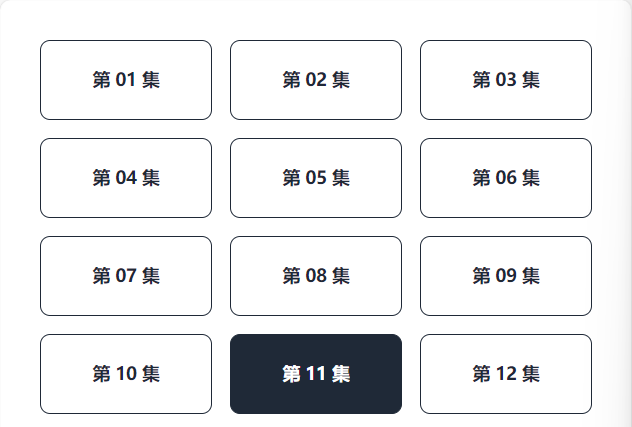
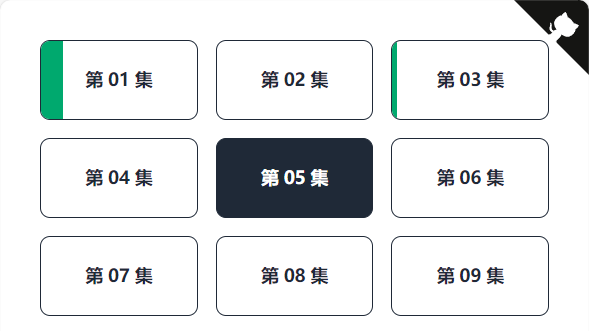
feat: display progress on home page

diff --git a/src/pages/episode.vue b/src/pages/episode.vue
@@ -1,9 +1,8 @@
 <script setup lang="ts">
 import data from '@/assets/data.json'
-import audioYesUrl from '/audio/yes.mp3'
-import audioNoUrl from '/audio/no.mp3'
 import { checkSentence } from '@/utils/index'
 import { useLocalStorage } from '@vueuse/core'
+import { useAudio } from '@/utils/hooks'
 
 type Sentence = {
     CN: string
@@ -14,9 +13,6 @@ type Lines = {
     titleCN: string
     sentences: Sentence[]
 }
-
-const yesAudio = new Audio(audioYesUrl)
-const noAudio = new Audio(audioNoUrl)
 
 const route = useRoute()
 const router = useRouter()
@@ -31,7 +27,7 @@ const completedList = useLocalStorage<boolean[]>(
 )
 const page = reactive({
     // 当前页码：找到第一个未练习的句子
-    current: completedList.value.findIndex((x) => !x) + 1,
+    current: Math.max(1, completedList.value.findIndex((x) => !x) + 1),
     total
 })
 const currentIndex = computed(() => page.current - 1)
@@ -47,20 +43,19 @@ const checkDisabled = computed(() => !input.value)
 
 const showResult = ref(false)
 const result = ref(false)
+const audio = useAudio()
 function check() {
     if (checkDisabled.value) return
-    if (showResult.value && !result.value) {
-        restore()
-        return
-    }
+    if (showResult.value && !result.value) return restore()
+    if (showResult.value && result.value) return next()
 
     result.value = checkSentence(input.value, sentence.value.EN)
     showResult.value = true
     if (result.value) {
         completedList.value[currentIndex.value] = true
-        yesAudio.play()
+        audio.playYes()
     } else {
-        noAudio.play()
+        audio.playNo()
     }
 }
 function restore() {
@@ -175,6 +170,15 @@ function next() {
 </template>
 
 <style lang="scss" scoped>
+@supports not (color: oklch(0% 0% 0deg)) {
+    .btn[disabled],
+    .btn:disabled {
+        color: #b0b3b9;
+        background-color: #d5d6d9;
+        border-color: transparent;
+    }
+}
+
 .btn-bar {
     position: fixed;
     left: 0;

diff --git a/src/pages/index.vue b/src/pages/index.vue
@@ -1,7 +1,19 @@
-<script setup lang="ts"></script>
+<script setup lang="ts">
+function getProgress(i: number) {
+    const str = localStorage.getItem(`completedList-${i}`)
+    if (str) {
+        const completedList = JSON.parse(str) as boolean[]
+        const progress =
+            (completedList.filter((x) => x).length / completedList.length) * 100
+        return `${progress}%`
+    } else {
+        return 0
+    }
+}
+</script>
 
 <template>
-    <div class="vapp entrance">
+    <div class="vapp entrance-list">
         <!-- style="flex-basis: calc(16.66% - 0.9rem); min-width: 90px" -->
         <RouterLink
             v-for="i in 52"
@@ -10,21 +22,39 @@
             style="min-width: 5.625rem"
         >
             <button class="w-full h-16 btn btn-neutral btn-outline">
-                第 {{ String(i).padStart(2, '0') }} 集
+                <span>第 {{ String(i).padStart(2, '0') }} 集</span>
+                <span :style="{ width: getProgress(i) }"></span>
             </button>
         </RouterLink>
     </div>
 </template>
 
 <style lang="scss" scoped>
-.entrance {
+.entrance-list {
     display: grid;
     grid-template-columns: repeat(3, 1fr);
     gap: 0.9rem;
+
+    .btn {
+        position: relative;
+        overflow: hidden;
+    }
+    .btn span:first-child {
+        position: relative;
+        z-index: 5;
+    }
+    .btn span:last-child {
+        position: absolute;
+        top: 0;
+        bottom: 0;
+        left: 0;
+        z-index: 1;
+        background-color: #00a96e;
+    }
 }
 
 @media (min-width: 640px) {
-    .entrance {
+    .entrance-list {
         grid-template-columns: repeat(4, 1fr);
     }
 }

diff --git a/index.html b/index.html
@@ -11,7 +11,7 @@
   </head>
   <body>
     <div id="app"></div>
-    <a href="https://github.com/justorez/peppa" class="github-corner" title="Fork me on github">
+    <a href="https://github.com/justorez/peppa" target="_blank" class="github-corner" title="Fork me on github">
       <svg viewBox="0 0 250 250" style="fill:#151513; color:#fff; position: absolute; top: 0; border: 0; right: 0;" aria-hidden="true">
         <path d="M0,0 L115,115 L130,115 L142,142 L250,250 L250,0 Z"></path><path d="M128.3,109.0 C113.8,99.7 119.0,89.6 119.0,89.6 C122.0,82.7 120.5,78.6 120.5,78.6 C119.2,72.0 123.4,76.3 123.4,76.3 C127.3,80.9 125.5,87.3 125.5,87.3 C122.9,97.6 130.6,101.9 134.4,103.2" fill="currentColor" style="transform-origin: 130px 106px;" class="octo-arm">  
         </path>

diff --git a/src/utils/index.ts b/src/utils/index.ts
@@ -1,5 +1,11 @@
 export function checkSentence(input: string, answer: string) {
-    input = input.replace(/[.,?]/g, ' ').split(/\s+/).join('')
-    answer = answer.replace(/[.,?]/g, ' ').split(/\s+/).join('')
+    input = input
+        .replace(/[.,?!]/g, ' ')
+        .split(/\s+/)
+        .join('')
+    answer = answer
+        .replace(/[.,?!]/g, ' ')
+        .split(/\s+/)
+        .join('')
     return input.toLowerCase() === answer.toLowerCase()
 }

diff --git a/src/utils/hooks.ts b/src/utils/hooks.ts
@@ -1,0 +1,12 @@
+import audioYesUrl from '/audio/yes.mp3'
+import audioNoUrl from '/audio/no.mp3'
+
+export function useAudio() {
+    const yesAudio = new Audio(audioYesUrl)
+    const noAudio = new Audio(audioNoUrl)
+
+    return {
+        playYes: () => yesAudio.play(),
+        playNo: () => noAudio.play()
+    }
+}
